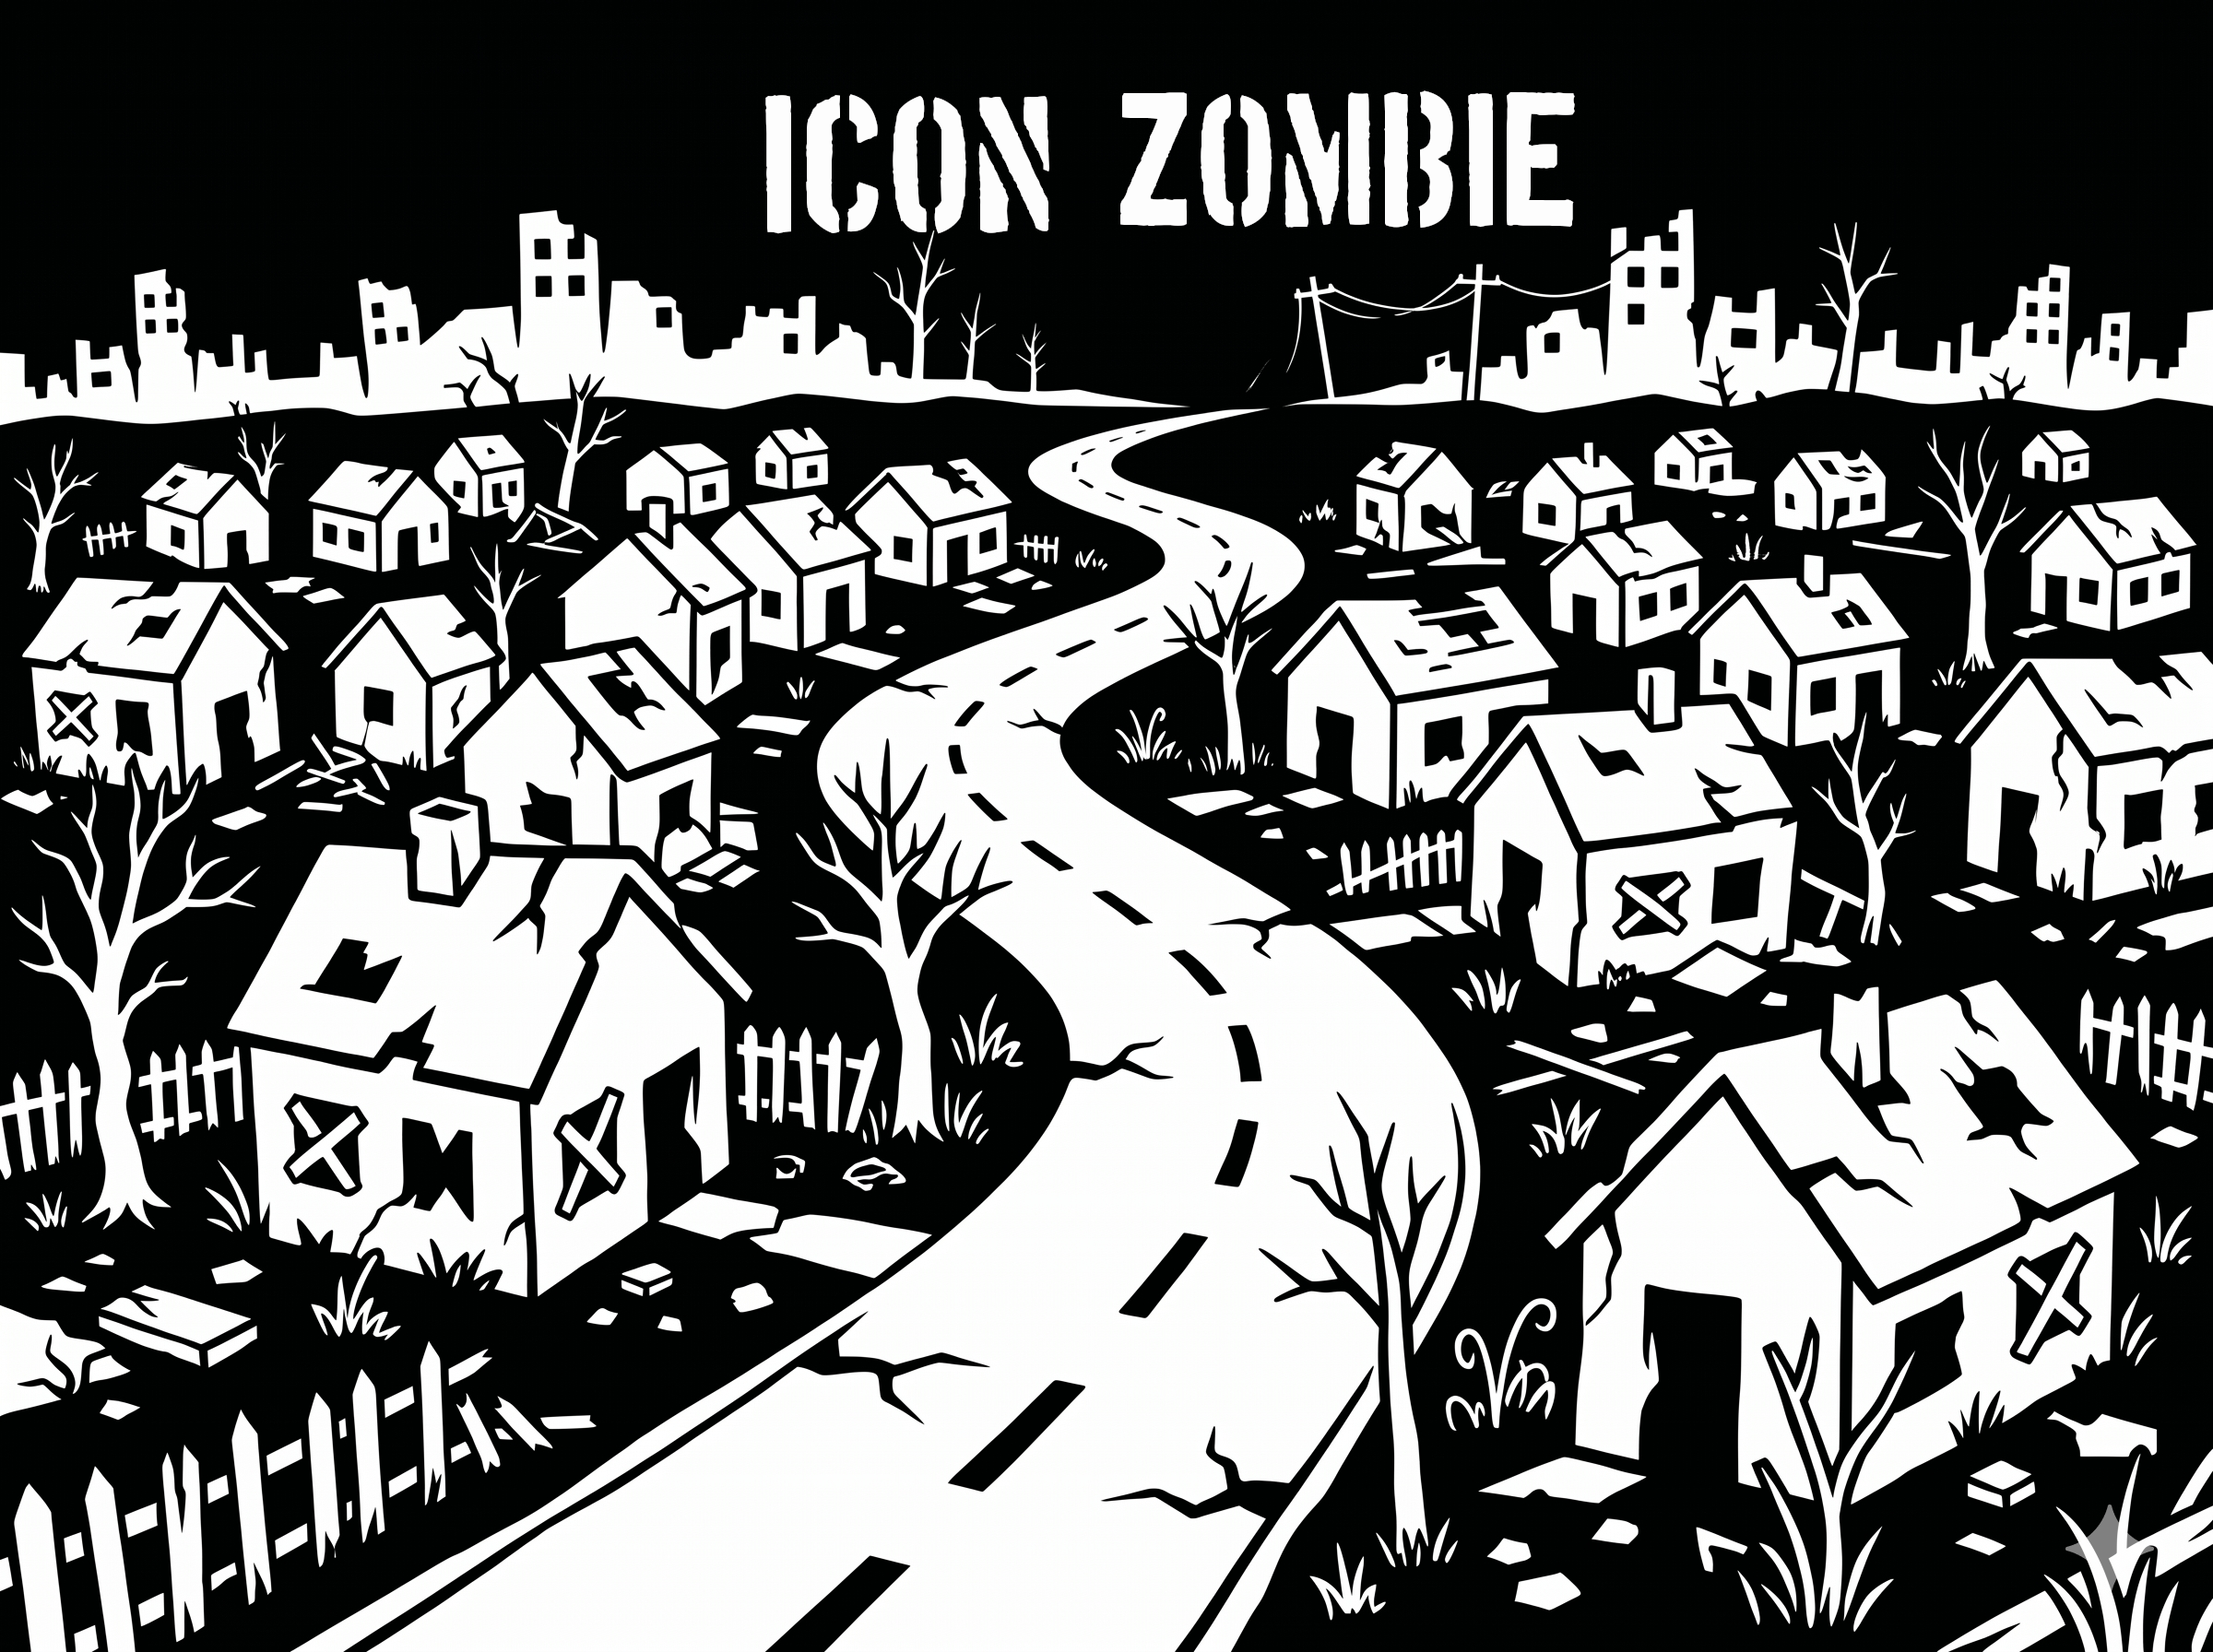
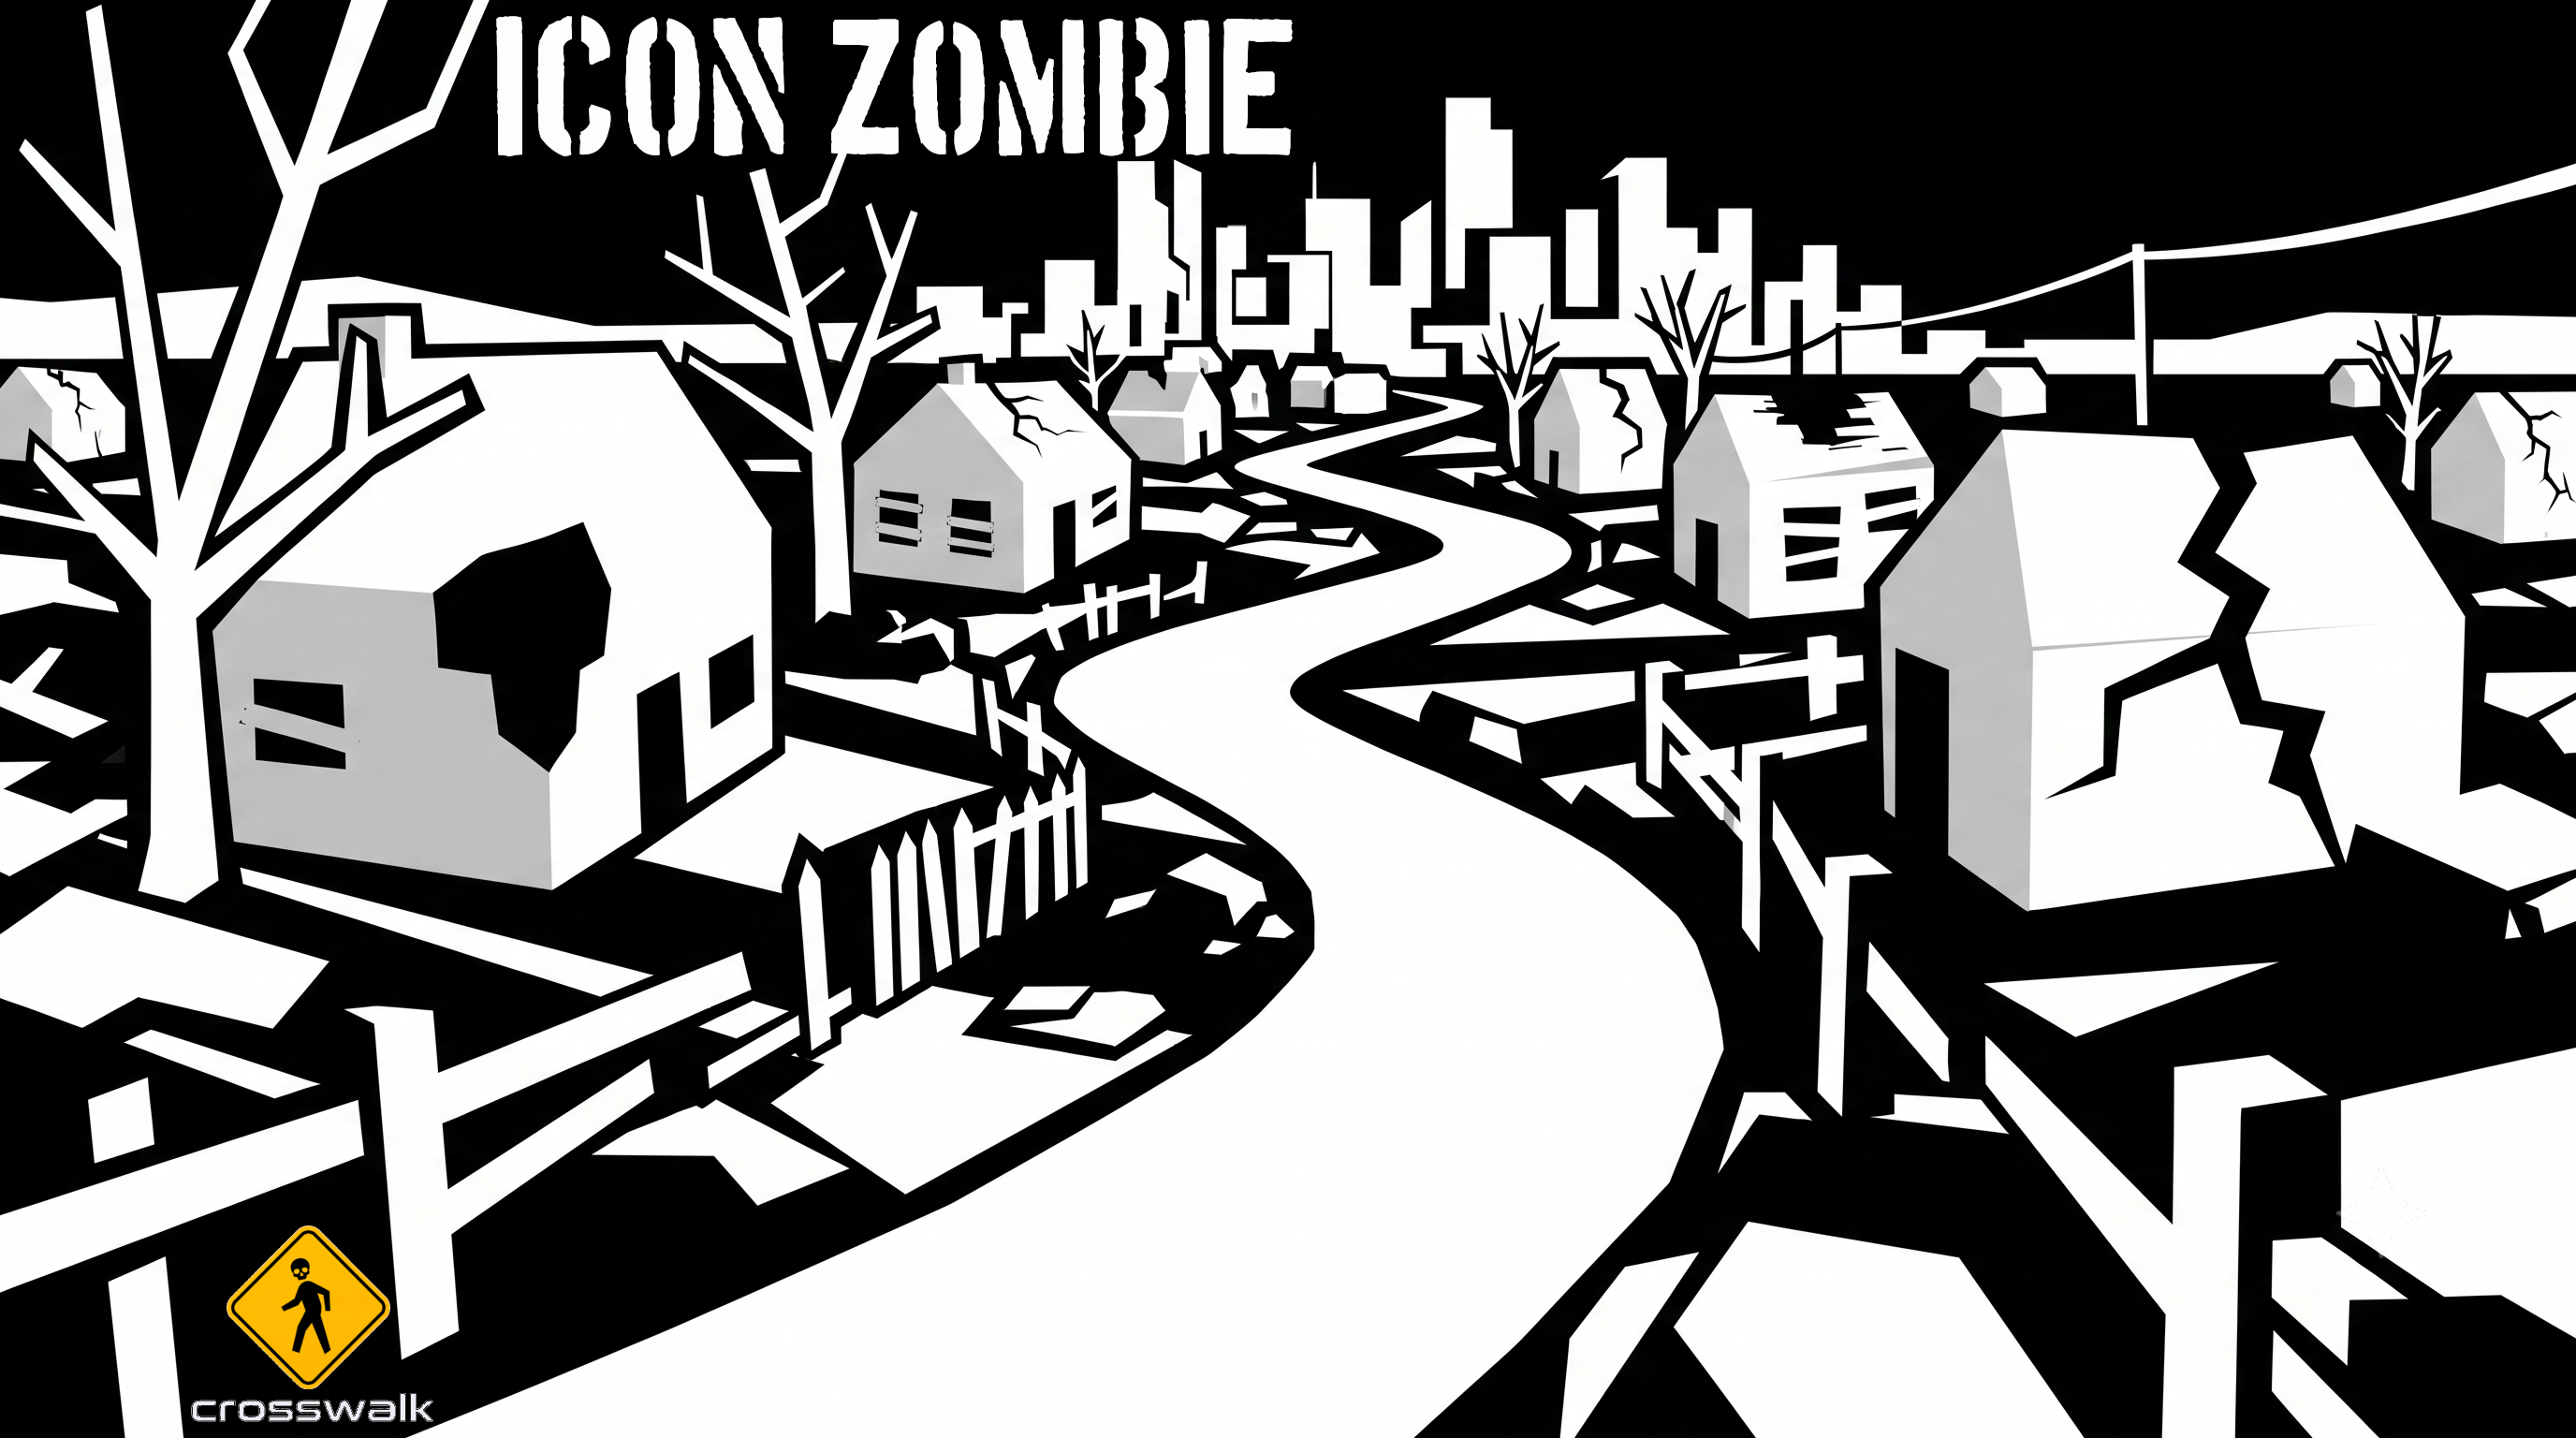
New Menu

diff --git a/client/src/game/managers/SimulationManager.js b/client/src/game/managers/SimulationManager.js
@@ -62,26 +62,27 @@ export class SimulationManager {
       player.hearingZone = computeHearingZone(player);
 
       // Performance filter: only process active zombies within sight/range
-      let activeZombies = isSleeping
-        ? zombies
-        : zombies.filter(z => {
-            if (z.hp <= 0) return false;
-            const zX = z.logicalX !== undefined ? z.logicalX : z.x;
-            const zY = z.logicalY !== undefined ? z.logicalY : z.y;
-            const pX = player.logicalX !== undefined ? player.logicalX : player.x;
-            const pY = player.logicalY !== undefined ? player.logicalY : player.y;
-            
-            const dx = Math.abs(zX - pX);
-            const dy = Math.abs(zY - pY);
-            if (dx < 60 && dy < 60) return true;
+      const activeDistance = isSleeping ? 80 : 60;
+      const npcDistance = isSleeping ? 40 : 30;
 
-            return npcs.some(npc => {
-              if (!npc || npc.hp <= 0 || npc.hasExited) return false;
-              const nX = npc.logicalX !== undefined ? npc.logicalX : npc.x;
-              const nY = npc.logicalY !== undefined ? npc.logicalY : npc.y;
-              return Math.abs(zX - nX) < 30 && Math.abs(zY - nY) < 30;
-            });
-          });
+      let activeZombies = zombies.filter(z => {
+        if (z.hp <= 0) return false;
+        const zX = z.logicalX !== undefined ? z.logicalX : z.x;
+        const zY = z.logicalY !== undefined ? z.logicalY : z.y;
+        const pX = player.logicalX !== undefined ? player.logicalX : player.x;
+        const pY = player.logicalY !== undefined ? player.logicalY : player.y;
+        
+        const dx = Math.abs(zX - pX);
+        const dy = Math.abs(zY - pY);
+        if (dx < activeDistance && dy < activeDistance) return true;
+
+        return npcs.some(npc => {
+          if (!npc || npc.hp <= 0 || npc.hasExited) return false;
+          const nX = npc.logicalX !== undefined ? npc.logicalX : npc.x;
+          const nY = npc.logicalY !== undefined ? npc.logicalY : npc.y;
+          return Math.abs(zX - nX) < npcDistance && Math.abs(zY - nY) < npcDistance;
+        });
+      });
 
       // Construct entity list for ECS systems
       let ecsEntities = [player, ...activeZombies, ...npcs];

diff --git a/client/src/index.css b/client/src/index.css
@@ -1,3 +1,4 @@
+@import url('https://fonts.googleapis.com/css2?family=Outfit:wght@800;900&display=swap');
 @tailwind base;
 @tailwind components;
 @tailwind utilities;
@@ -651,25 +652,19 @@
   }
 
   .menu-btn-stencil {
-    font-family: sans-serif;
+    font-family: 'Outfit', -apple-system, BlinkMacSystemFont, 'Segoe UI', Roboto, sans-serif;
+    font-weight: 900;
     color: #ffffff;
-    -webkit-text-stroke: 1.2px #000000;
-    text-shadow: 
-      -1.2px -1.2px 0 #000,  
-       1.2px -1.2px 0 #000,
-      -1.2px  1.2px 0 #000,
-       1.2px  1.2px 0 #000,
-       0px  2px 4px rgba(0,0,0,0.85);
     background: transparent;
     border: none;
-    font-size: 1.75rem;
-    line-height: 1.1;
-    letter-spacing: 0.08em;
+    font-size: 1.35rem;
+    line-height: 1.2;
+    letter-spacing: 0.1em;
     transition: all 0.2s cubic-bezier(0.4, 0, 0.2, 1);
     cursor: pointer;
     text-transform: uppercase;
     text-align: center;
-    padding: 0px 0.5rem;
+    padding: 4px 0.5rem;
     display: inline-block;
     outline: none;
   }
@@ -677,13 +672,6 @@
   .menu-btn-stencil:hover {
     color: #facc15;
     transform: scale(1.05);
-    text-shadow: 
-      -1.2px -1.2px 0 #000,  
-       1.2px -1.2px 0 #000,
-      -1.2px  1.2px 0 #000,
-       1.2px  1.2px 0 #000,
-       0 0 10px rgba(250, 204, 21, 0.8),
-       0px  3px 6px rgba(0,0,0,0.85);
   }
 
   .menu-btn-stencil:active {
@@ -691,10 +679,9 @@
   }
 
   .menu-btn-stencil:disabled {
-    color: #64748b;
-    -webkit-text-stroke: 1px #334155;
-    text-shadow: none;
+    color: #4b5563;
     cursor: not-allowed;
     transform: none;
   }
 }
+

diff --git a/client/src/components/Game/StartMenu.tsx b/client/src/components/Game/StartMenu.tsx
@@ -150,14 +150,14 @@ export default function StartMenu({ onStartGame }: StartMenuProps) {
       className="relative h-full w-full bg-no-repeat select-none"
       style={{ backgroundImage: "url('./images/background/menubackground.png')", backgroundSize: '100% 100%' }}
     >
-      {/* Subtle, pure black gradient that fades in from the right edge of the screen */}
+      {/* Solid black, sharply angled geometric panel behind the menu list to completely obscure the background art */}
       <div 
-        className="absolute inset-y-0 right-0 w-[50%] pointer-events-none z-0"
-        style={{ background: 'linear-gradient(to left, rgba(0, 0, 0, 0.7) 0%, rgba(0, 0, 0, 0) 100%)' }}
+        className="absolute right-0 bottom-0 w-[32%] h-[55%] bg-black z-5 pointer-events-none"
+        style={{ clipPath: 'polygon(12% 18%, 100% 0, 100% 100%, 0 100%)' }}
       />
 
       {/* Menu buttons positioned in the bottom-right corner with tight compression */}
-      <div className="absolute bottom-8 right-[8%] z-10 flex flex-col gap-[1px] items-center justify-end min-w-[280px]">
+      <div className="absolute bottom-8 right-[4%] z-10 flex flex-col gap-[1px] items-center justify-end min-w-[280px]">
         <button
           onClick={handleNewGame}
           disabled={isLoading}

diff --git a/client/src/game/map/LootGenerator.js b/client/src/game/map/LootGenerator.js
@@ -226,13 +226,13 @@ export class LootGenerator {
                     if (existing.length === 0) {
                         grassTilesCount++;
                         const roll = gameRandom.next();
-                        if (roll < 0.015) { // 1.5% chance for a stick
+                        if (roll < 0.0075) { // 0.75% chance for a stick
                             const stick = createItemFromDef('weapon.stick');
                             if (stick) {
                                 gameMap.setItemsOnTile(x, y, [stick]);
                                 sticksSpawned++;
                             }
-                        } else if (roll < 0.030) { // 1.5% chance for a stone (total 3% chance)
+                        } else if (roll < 0.015) { // 0.75% chance for a stone (total 1.5% chance)
                             const stone = createItemFromDef('crafting.stone');
                             if (stone) {
                                 gameMap.setItemsOnTile(x, y, [stone]);